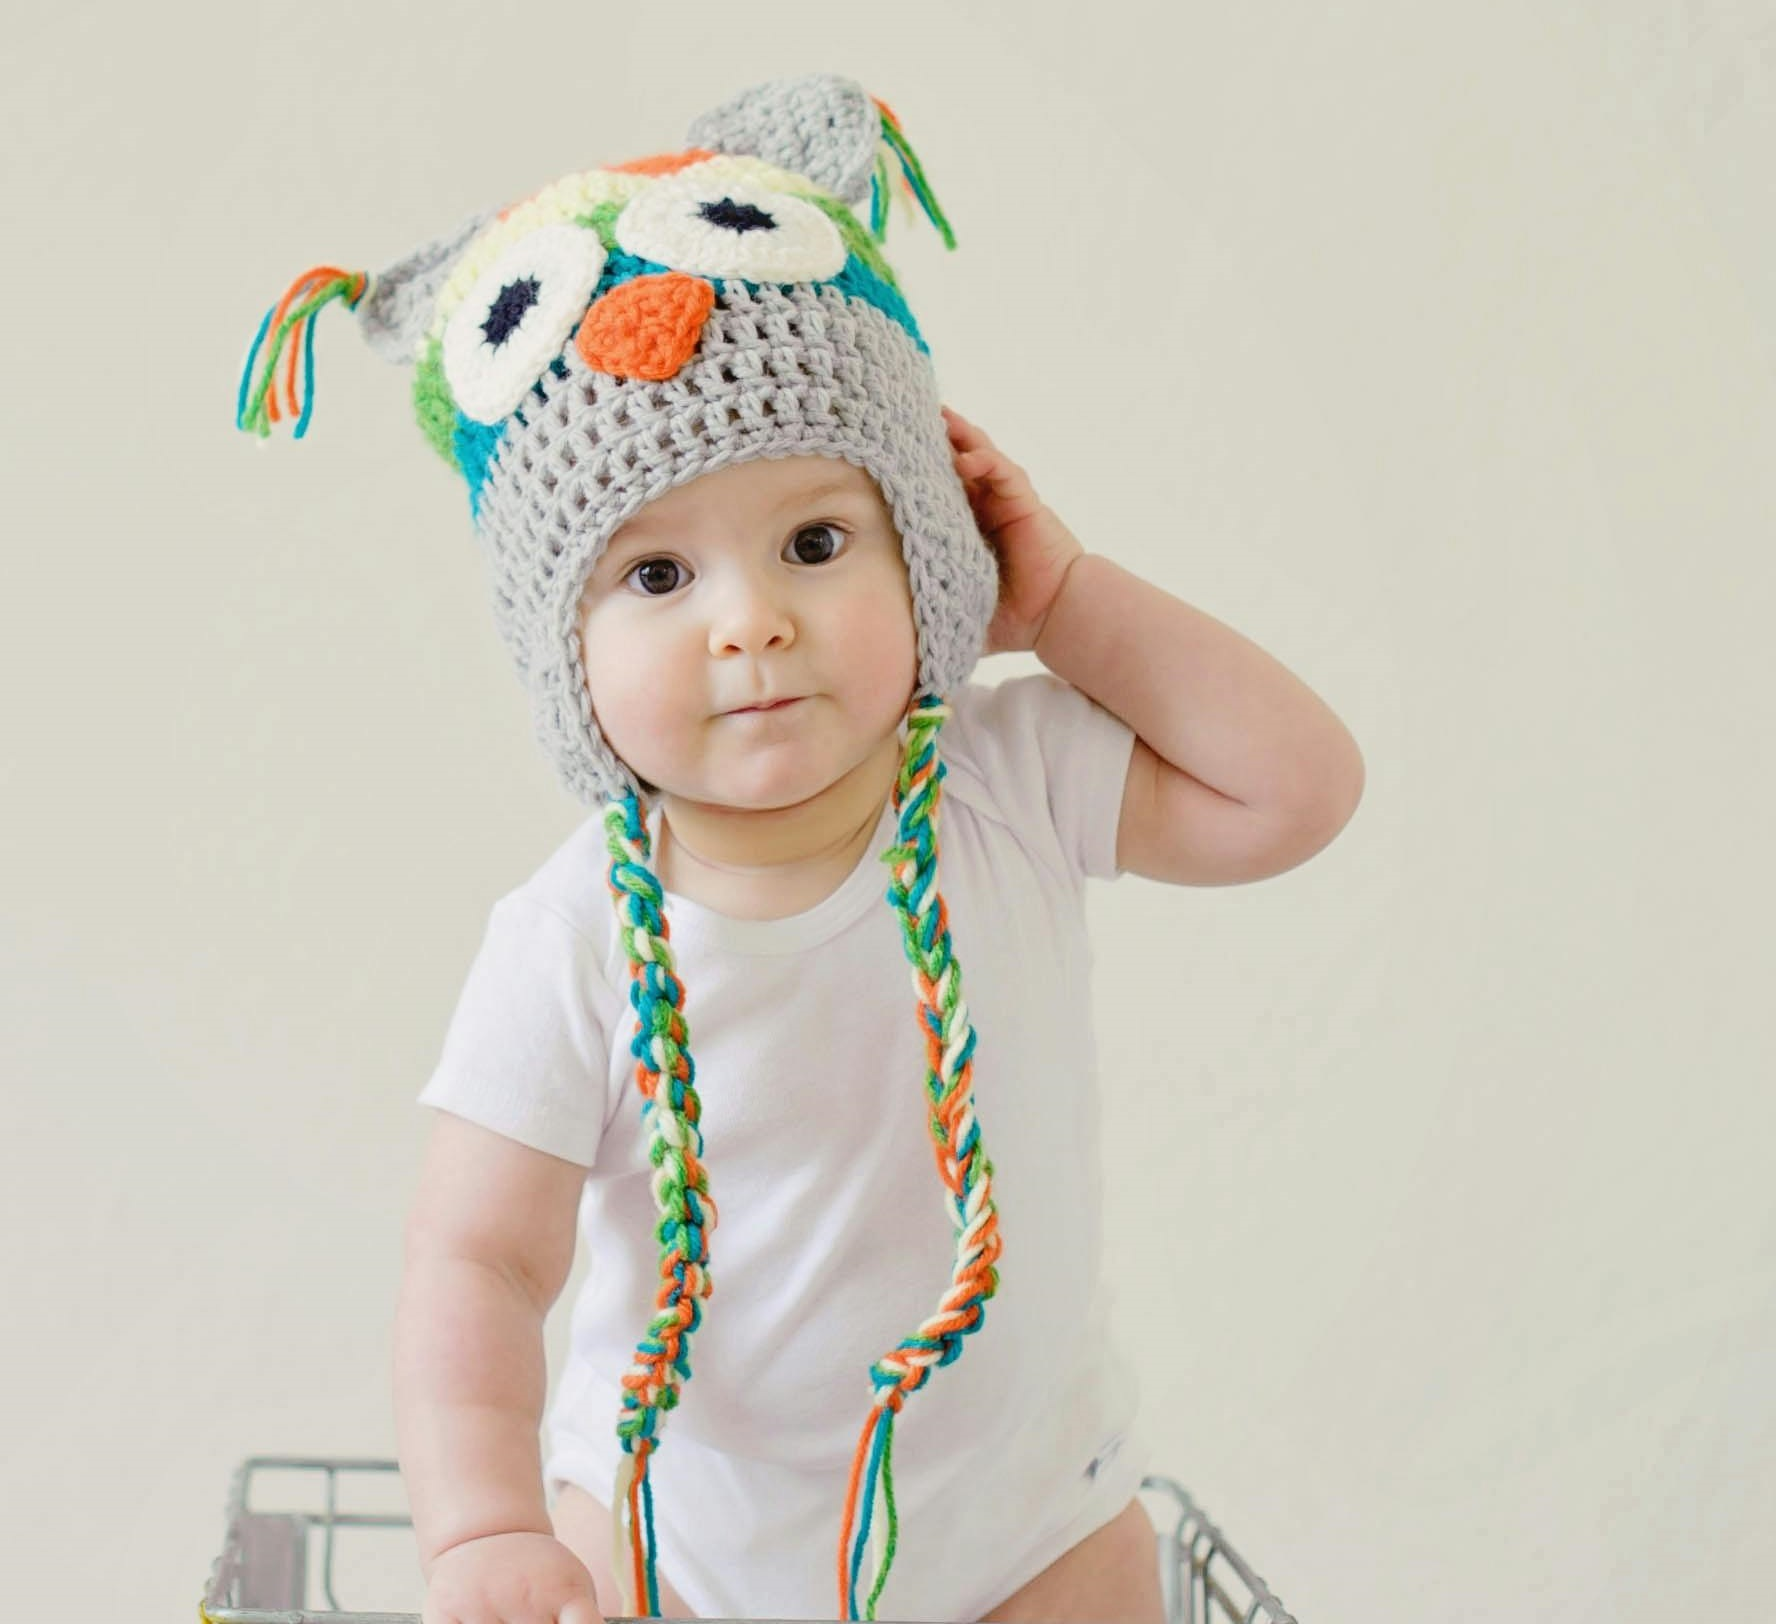
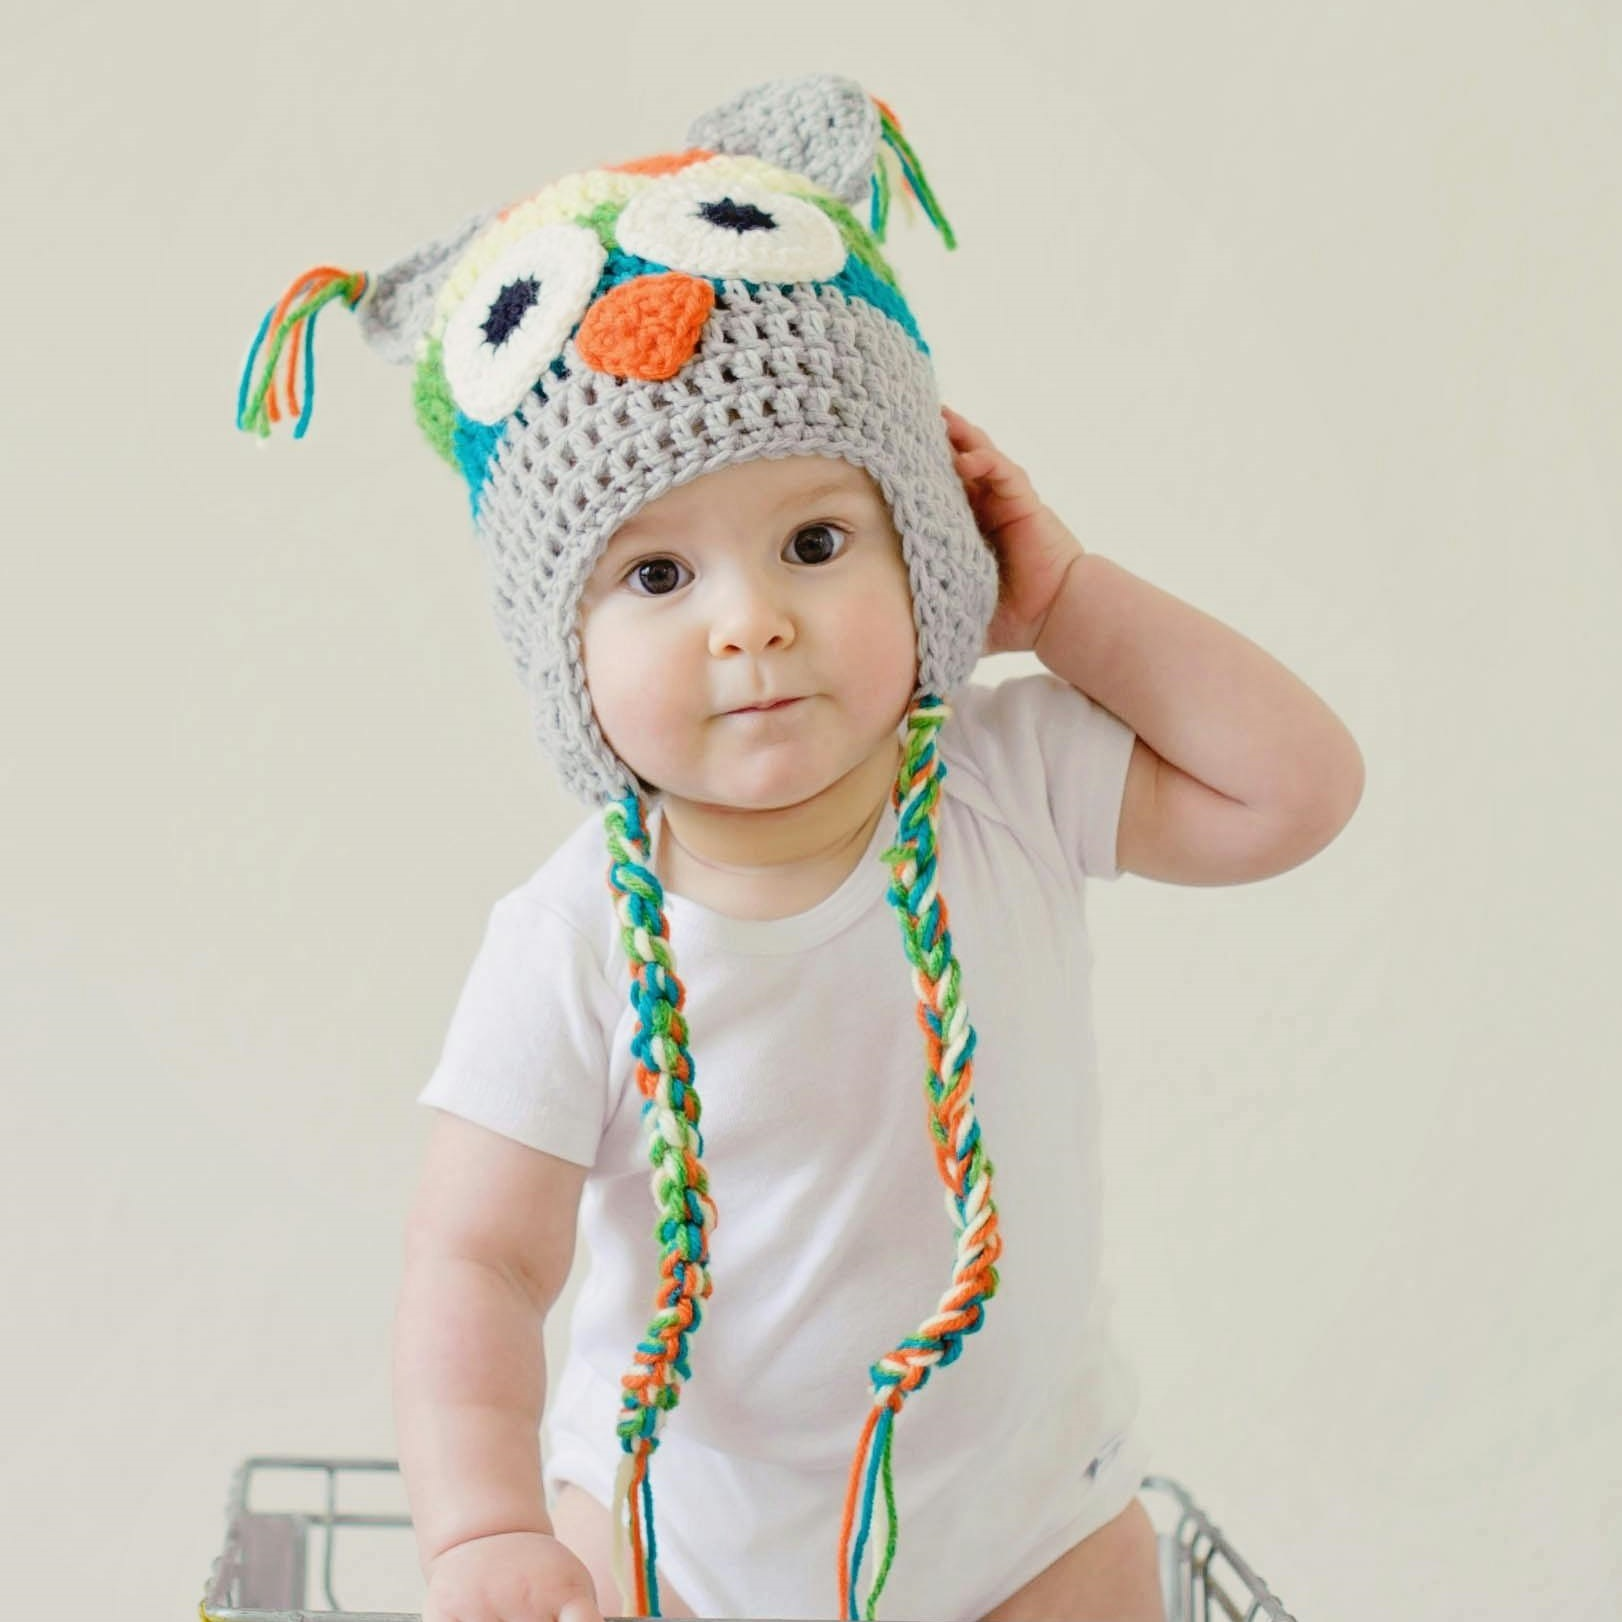
tuition page

Changed region(s): [[0.0925, 0.0308, 0.8631, 1.0]]

diff --git a/src/pages/TuitionPage.jsx b/src/pages/TuitionPage.jsx
@@ -1,0 +1,59 @@
+export default function TuitionPage() {
+    return(
+        <>
+        <h1>TUITION</h1>
+        <div className="tuitionContainer">
+            
+            <div>
+                <div className="programmImage">
+                    <img src="../../public/programmsImg/infant.jpg" alt="infant" />
+                </div>
+                <div style={{ textAlign: "center"}}>
+                    <h2>Infants Weekly</h2>
+                    <p>Full Day $270</p>
+                    <p>Morning or Afternoon $65</p>                  
+                </div>
+            </div>
+            <div>
+                <div className="programmImage">
+                    <img src="../../public/programmsImg/toddler.jpg" alt="infant" />
+                </div>
+                <div style={{ textAlign: "center"}}>
+                    <h2>Toddlers Weekly</h2>
+                    <p>Full Day $250</p>
+                    <p>Morning or Afternoon $60</p>                  
+                </div>
+            </div>
+            <div>
+                <div className="programmImage">
+                    <img src="../../public/programmsImg/preschool.jpg" alt="infant" />
+                </div>
+                <div style={{ textAlign: "center"}}>
+                    <h2>Preschool Weekly</h2>
+                    <p>Full Day $250</p>
+                    <p>Morning or Afternoon $60</p>                  
+                </div>
+            </div>
+            <div>
+                <div className="programmImage">
+                    <img src="../../public/programmsImg/school.jpg" alt="infant" />
+                </div>
+                <div style={{ textAlign: "center"}}>
+                    <h2>Before and After School</h2>
+                    <p>Before and After $175</p>
+                    <p>Before OR After $100</p>
+                    <p>Daily $40 (used only for school closures)</p>                 
+                </div>
+            </div>
+            <div>
+                <div className="programmImage">
+                    <img src="../../public/programmsImg/camp.jpg" alt="infant" />
+                </div>
+                <div style={{ textAlign: "center"}}>
+                    <h2>Summer Camp</h2>
+                    <p>Full day $240</p>                                    
+                </div>
+            </div>
+        </div>
+    </>);
+}

diff --git a/src/App.jsx b/src/App.jsx
@@ -7,6 +7,7 @@ import AdminPage from './pages/AdminPage';
 import EditGroupPage from './pages/EditGroupPage';
 import './App.css';
 import NavBar from './components/NavBar';
+import TuitionPage from './pages/TuitionPage';
 
 
 export default function App() { 
@@ -18,6 +19,7 @@ export default function App() {
         <Route path='/' element={ <HomePage /> } />
         <Route path='/programms' element={<ProgrammsPage />} />
         <Route path='/schedule' element={<SchedulePage />} />
+        <Route path='/tuition' element={<TuitionPage />} />
         <Route path='/contacts' element={<ContactsPage />} />
         <Route path='/admin' element={<AdminPage />} />
         <Route path='/admin/update/:id' element={<EditGroupPage />} />

diff --git a/src/components/NavBar.jsx b/src/components/NavBar.jsx
@@ -2,9 +2,10 @@ import { Link } from "react-router-dom";
 
 export default function NavBar() {
     return <nav>
-            <Link to={"/"} >Home</Link>
+            <Link to={"/"}>Home</Link>
             <Link to={"/programms"}>Programms</Link>
             <Link to={"/schedule"}>Schedule</Link>
+            <Link to={"/tuition"}>Tuition</Link>
             <Link to={"/contacts"}>Contacts</Link>
             <Link to={"/admin"}>Administrator</Link> 
         </nav>

diff --git a/src/pages/SchedulePage.jsx b/src/pages/SchedulePage.jsx
@@ -18,6 +18,11 @@ export default function SchedulePage() {
                 <p>7:00 AM - 6:00 PM</p>
                 <p>7:00 AM - 5:30 PM</p>
             </div>
+            <div style={{ padding: "15px" }}>
+                <p>Part-time classes</p>
+                <p>Morning      8:30AM - 11:30AM</p>
+                <p>Afternoon   12:30PM - 3:30PM</p>
+            </div>
             
         </div>
         <h2>Enrollment</h2>

diff --git a/src/App.css b/src/App.css
@@ -16,6 +16,7 @@ h1 {
 .programmImage img {
     max-width: 300px;
     max-height: 300px;
+    object-fit: cover;
     padding-left: 15px;
     padding-right: 15px;  
     
@@ -27,4 +28,10 @@ h1 {
     padding-right: 15px;    
     text-align: justify;
     text-justify: inter-word;
+}
+
+.tuitionContainer {
+    display: flex;
+    flex-wrap: wrap;
+    margin: 10px;
 }

diff --git a/src/pages/ProgrammsPage.jsx b/src/pages/ProgrammsPage.jsx
@@ -108,7 +108,7 @@ export default function ProgrammsPage() {
 
                 </div>
             </div>
-            <h4 className="subtitle">! IMPORTANT ! Classes requared additional registation and payments </h4>
+            <h4 className="subtitle">! IMPORTANT ! Partner's Classes requared additional registation and payments </h4>
 
         </>
     );
